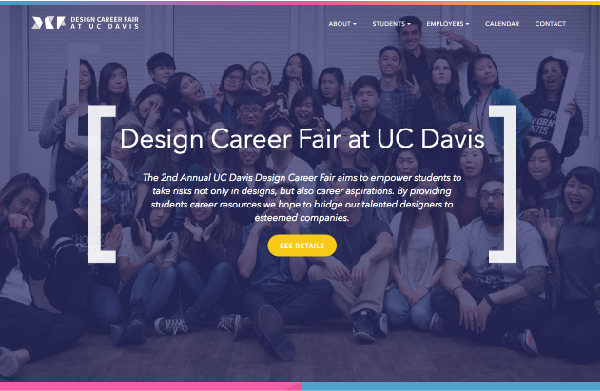
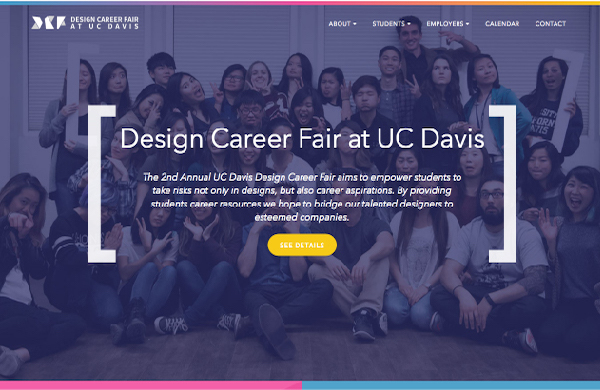
solved 1px issue, changed projects display order

diff --git a/index.html b/index.html
@@ -71,8 +71,8 @@
           <a href="#">
             <img src="./img/600/fc-dcf16.jpg" alt="UC Davis Design Career Fair">
             <div class="caption">
-              <h4>Building the UC Davis Design Career Fair Website</h4>
-              <p>Web design, programming, and teamwork.</p>
+              <!-- <h4>Building the UC Davis Design Career Fair Website</h4> -->
+              <!-- <p>Web design, programming, and teamwork.</p> -->
             </div>
           </a>
         </div>
@@ -82,19 +82,8 @@
           <a href="#">
             <img src="./img/600/fc-profacts.jpg" alt="Turning Unsolved Problems into an App: Emote">
             <div class="caption">
-              <h4>ProFacts</h4>
-              <p>Improving quality of life for people living with Celiac Disease</p>
-            </div>
-          </a>
-        </div>
-      </div>
-      <div class="col-xs-12 col-sm-6 col-md-6 col-lg-4">
-        <div class="thumbnail">
-          <a href="#">
-            <img src="./img/600/fc-young-creatives.jpg" alt="Bridging the gap between Town and Gown">
-            <div class="caption">
-              <h4>The gap between Town and Gown</h4>
-              <p>How can a small college town retain young creative professionals?</p>
+              <!-- <h4>ProFacts</h4> -->
+              <!-- <p>Improving quality of life for people living with Celiac Disease</p> -->
             </div>
           </a>
         </div>
@@ -104,8 +93,19 @@
           <a href="#">
             <img src="./img/600/fc-weather.jpg" alt="Student Weather App Challenge">
             <div class="caption">
-              <h4>Student Weather App Challenge</h4>
-              <p>Designing for student success.</p>
+              <!-- <h4>Student Weather App Challenge</h4> -->
+              <!-- <p>Designing for student success.</p> -->
+            </div>
+          </a>
+        </div>
+      </div>
+      <div class="col-xs-12 col-sm-6 col-md-6 col-lg-4">
+        <div class="thumbnail">
+          <a href="#">
+            <img src="./img/600/fc-young-creatives.jpg" alt="Bridging the gap between Town and Gown">
+            <div class="caption">
+              <!-- <h4>The gap between Town and Gown</h4> -->
+              <!-- <p>How can a small college town retain young creative professionals?</p> -->
             </div>
           </a>
         </div>
